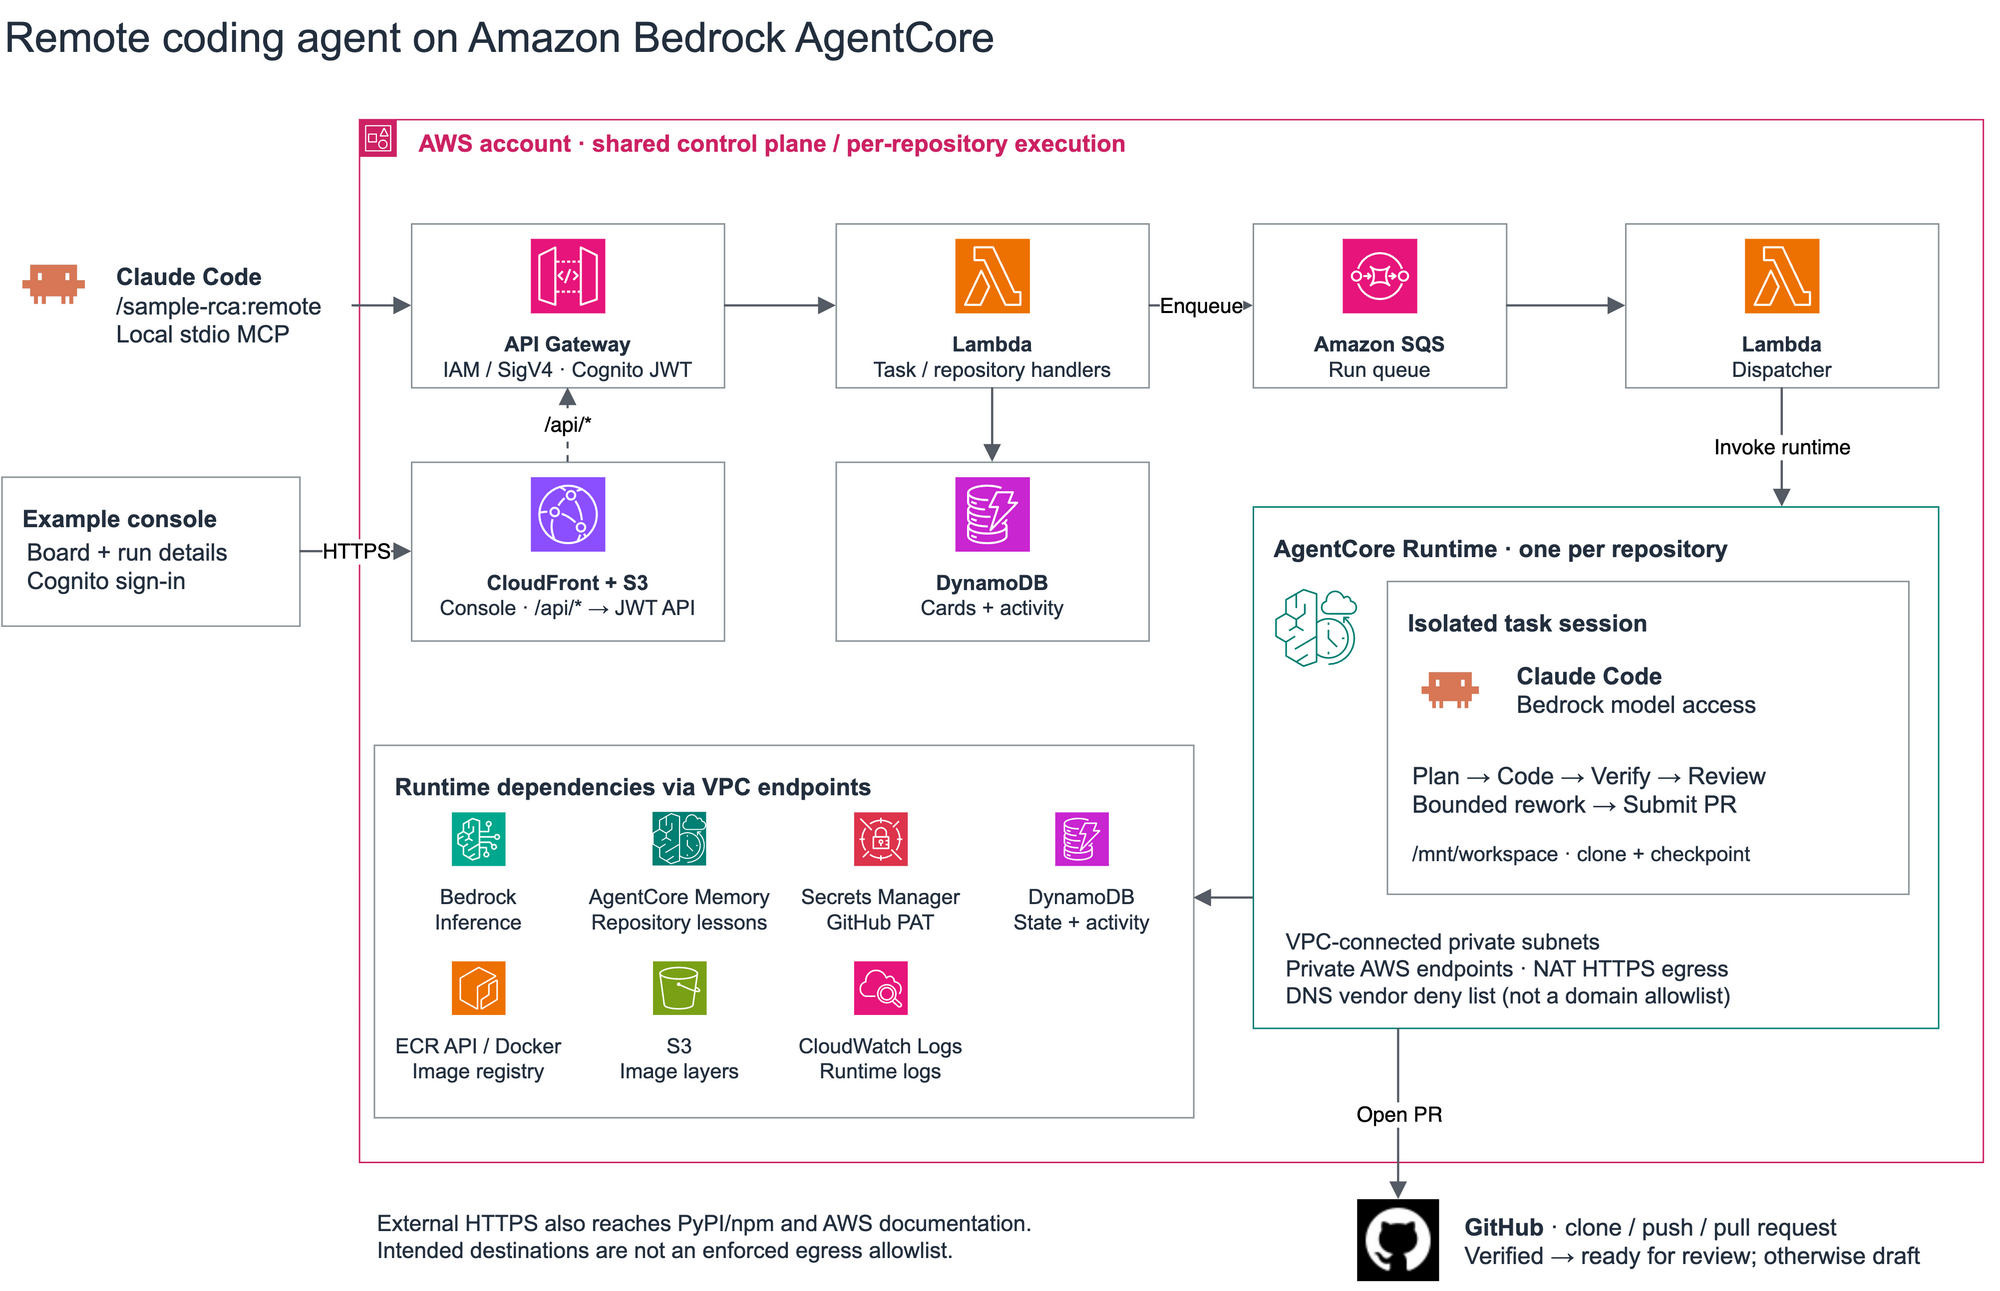
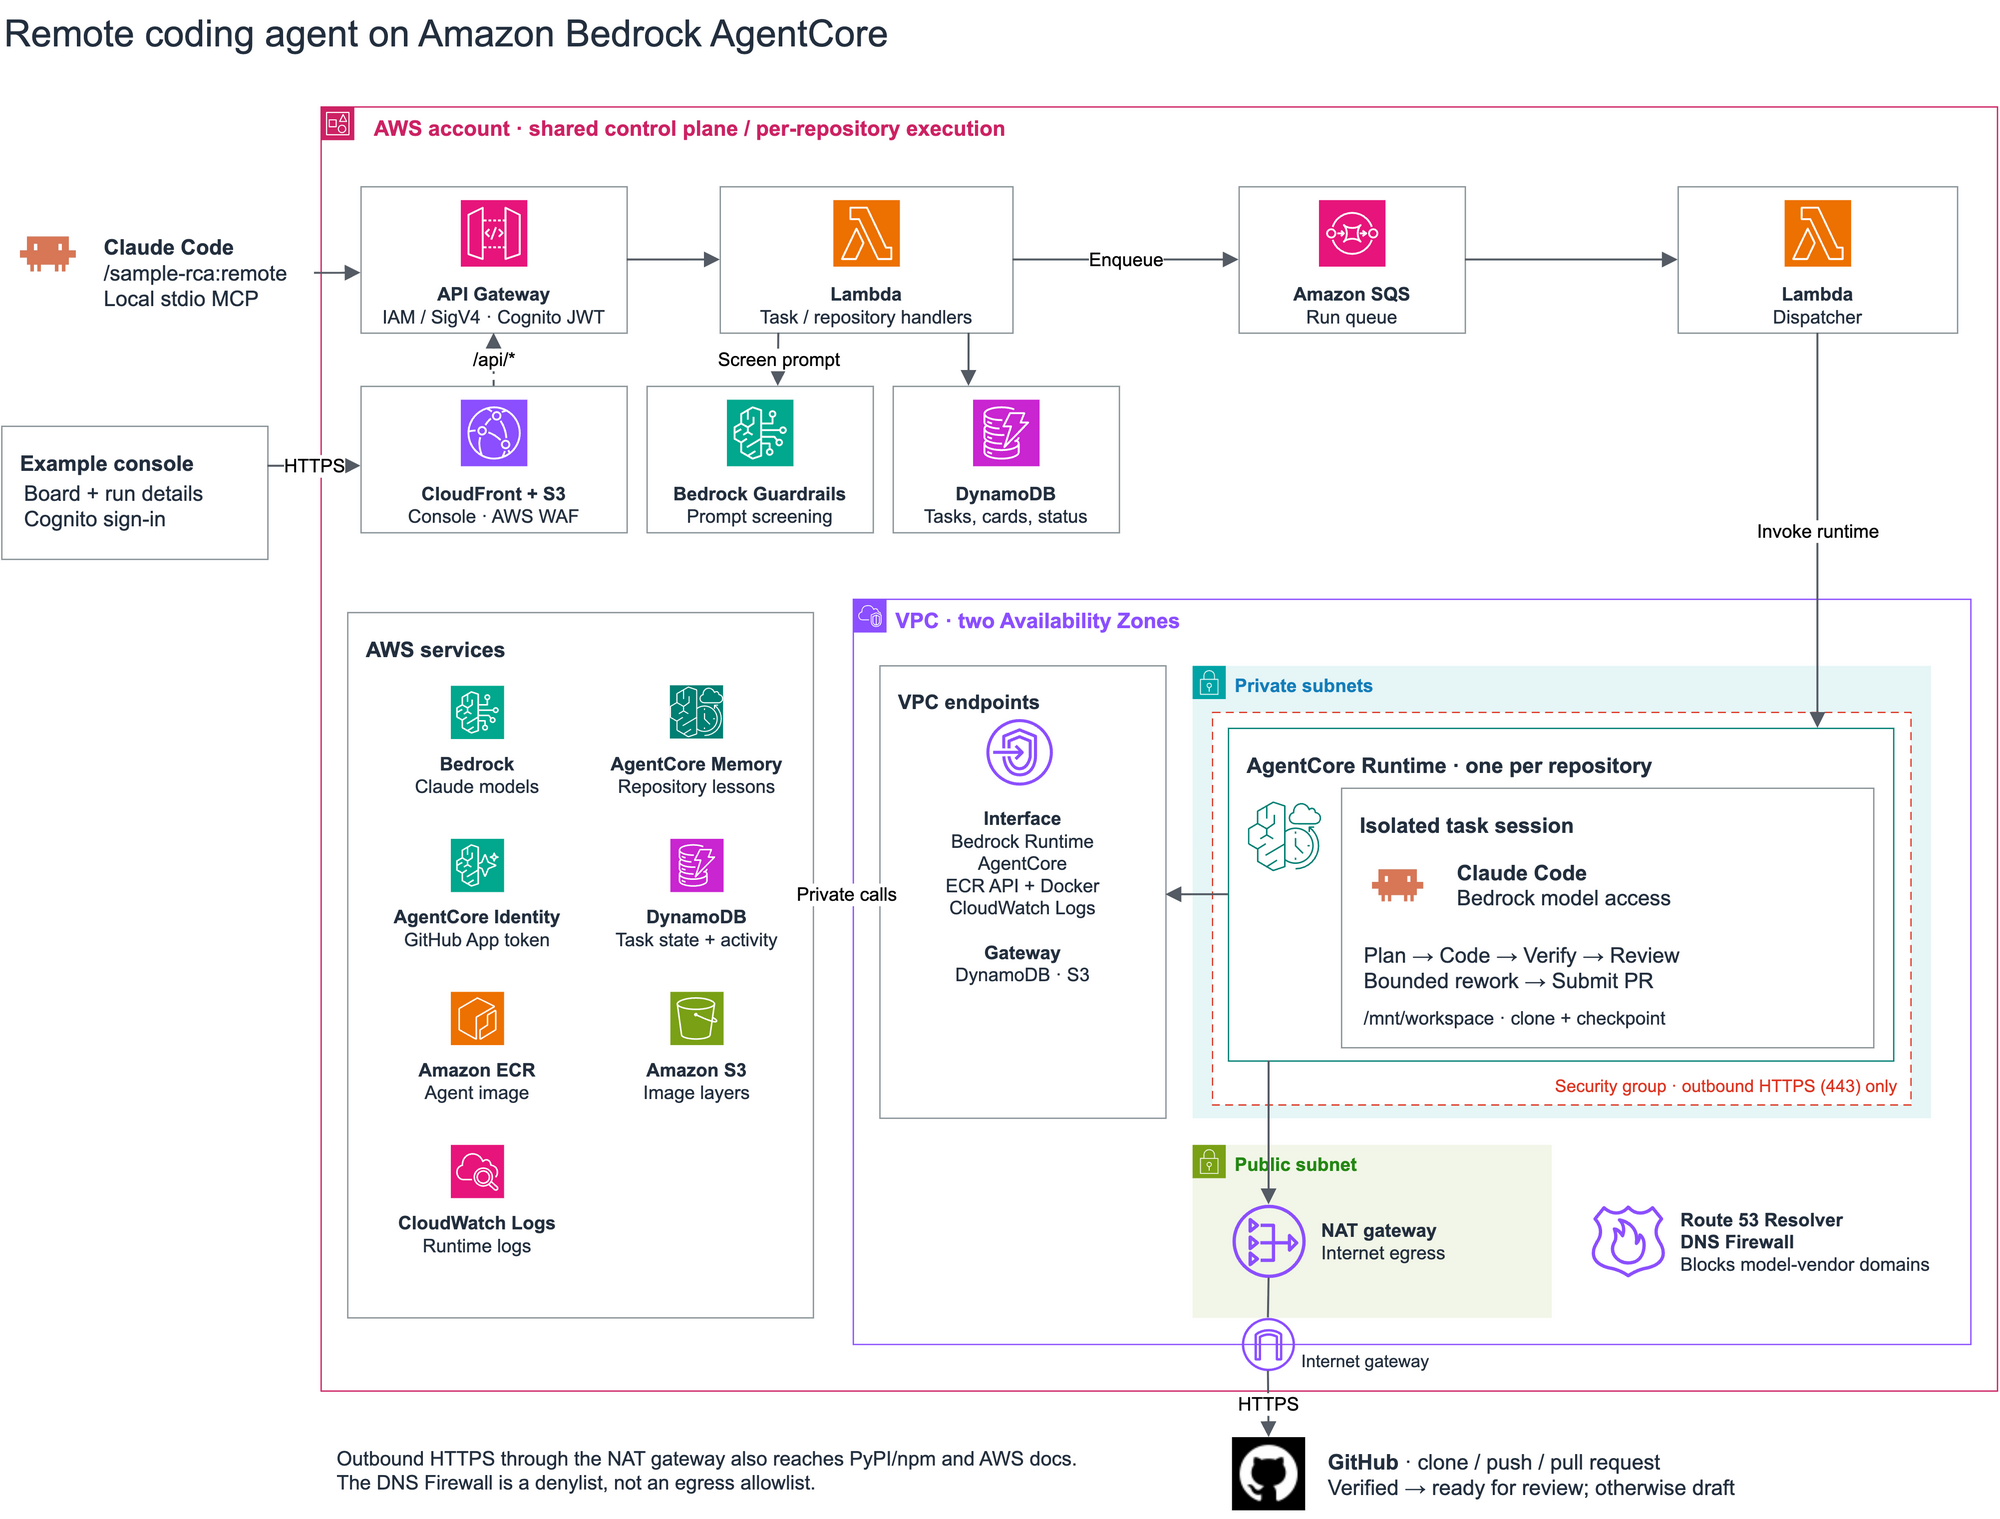
Update the architecture diagram
The diagram now shows the GitHub App held by AgentCore Identity, the
Bedrock Guardrails prompt check, AWS WAF, the VPC across two
Availability Zones (private subnets, an outbound-443 security group,
VPC endpoints, a public subnet with one NAT gateway), the internet
gateway and the Route 53 Resolver DNS Firewall.

The endpoint coverage test no longer expects a Secrets Manager
endpoint, which the stack does not create. README alt text and the
assets notes describe the new picture.

diff --git a/tests/test_docs.py b/tests/test_docs.py
@@ -77,7 +77,6 @@ _ENDPOINT_SERVICE_CLASSES = frozenset(
 _ENDPOINT_DIAGRAM_WORDS = {
     "BEDROCK_RUNTIME": "Bedrock",
     "BEDROCK_AGENTCORE": "AgentCore",
-    "SECRETS_MANAGER": "Secrets",
     "ECR": "ECR",
     "ECR_DOCKER": "ECR",
     "CLOUDWATCH_LOGS": "Logs",
@@ -653,7 +652,7 @@ def test_the_readme_diagram_names_every_vpc_endpoint() -> None:
         "the endpoint to `README.md`'s diagram AND its member to `_ENDPOINT_DIAGRAM_WORDS`."
     )
     diagram = ET.parse(REPO_ROOT / "assets/architecture.drawio")
-    endpoint_ids = {"bedrock", "memory", "secrets", "dynamodb", "ecr", "s3", "logs"}
+    endpoint_ids = {"bedrock", "memory", "dynamodb", "ecr", "s3", "logs"}
     cells = {cell.get("id"): cell for cell in diagram.findall(".//mxCell")}
     for name in endpoint_ids:
         assert cells[name].get("parent") == "endpoints"

diff --git a/assets/README.md b/assets/README.md
@@ -50,9 +50,12 @@ Before calling this an end-to-end demo, use an approved disposable AWS account a
 ## Architecture
 
 `architecture.drawio` is the editable source. `architecture.png` is its white-background
-export, suitable for GitHub light and dark themes. Service dependencies share one compact
-endpoint group; connectors describe the main request path, not every IAM or lifecycle operation.
-Lambda is outside the runtime's VPC connectivity boundary. GitHub is outside the AWS account.
+export, suitable for GitHub light and dark themes. The VPC spans two Availability Zones: the
+runtime sits in the private subnets behind a security group that allows only outbound HTTPS,
+reaches the services in the **AWS services** group (container id `endpoints`) through the VPC
+endpoints box, and reaches GitHub through the public subnet's NAT gateway and the internet
+gateway. Connectors describe the main request path, not every IAM or lifecycle operation.
+Lambda is outside the runtime's VPC. GitHub is outside the AWS account.
 All connectors are straight. The account uses the native AWS Account group border;
 the Claude Code artwork's black background is removed for transparent placement.
 

diff --git a/README.md b/README.md
@@ -156,7 +156,7 @@ nothing ran; its reason says whether to retry. It screens prompts only, not agen
 
 ## Architecture
 
-![AWS architecture: Claude Code or the console submits through API Gateway and Lambda; SQS dispatches AgentCore Runtime, which uses private AWS endpoints and GitHub over HTTPS.](assets/architecture.png)
+![AWS architecture: Claude Code or the console submits through API Gateway; a Lambda function screens each prompt with Amazon Bedrock Guardrails and queues it in SQS; a dispatcher starts a per-repository AgentCore Runtime in private VPC subnets, which reaches AWS services through VPC endpoints and GitHub through a NAT gateway, using a GitHub App token from AgentCore Identity.](assets/architecture.png)
 
 [Editable draw.io source](assets/architecture.drawio) · [Asset sources](assets/README.md#architecture)
 
